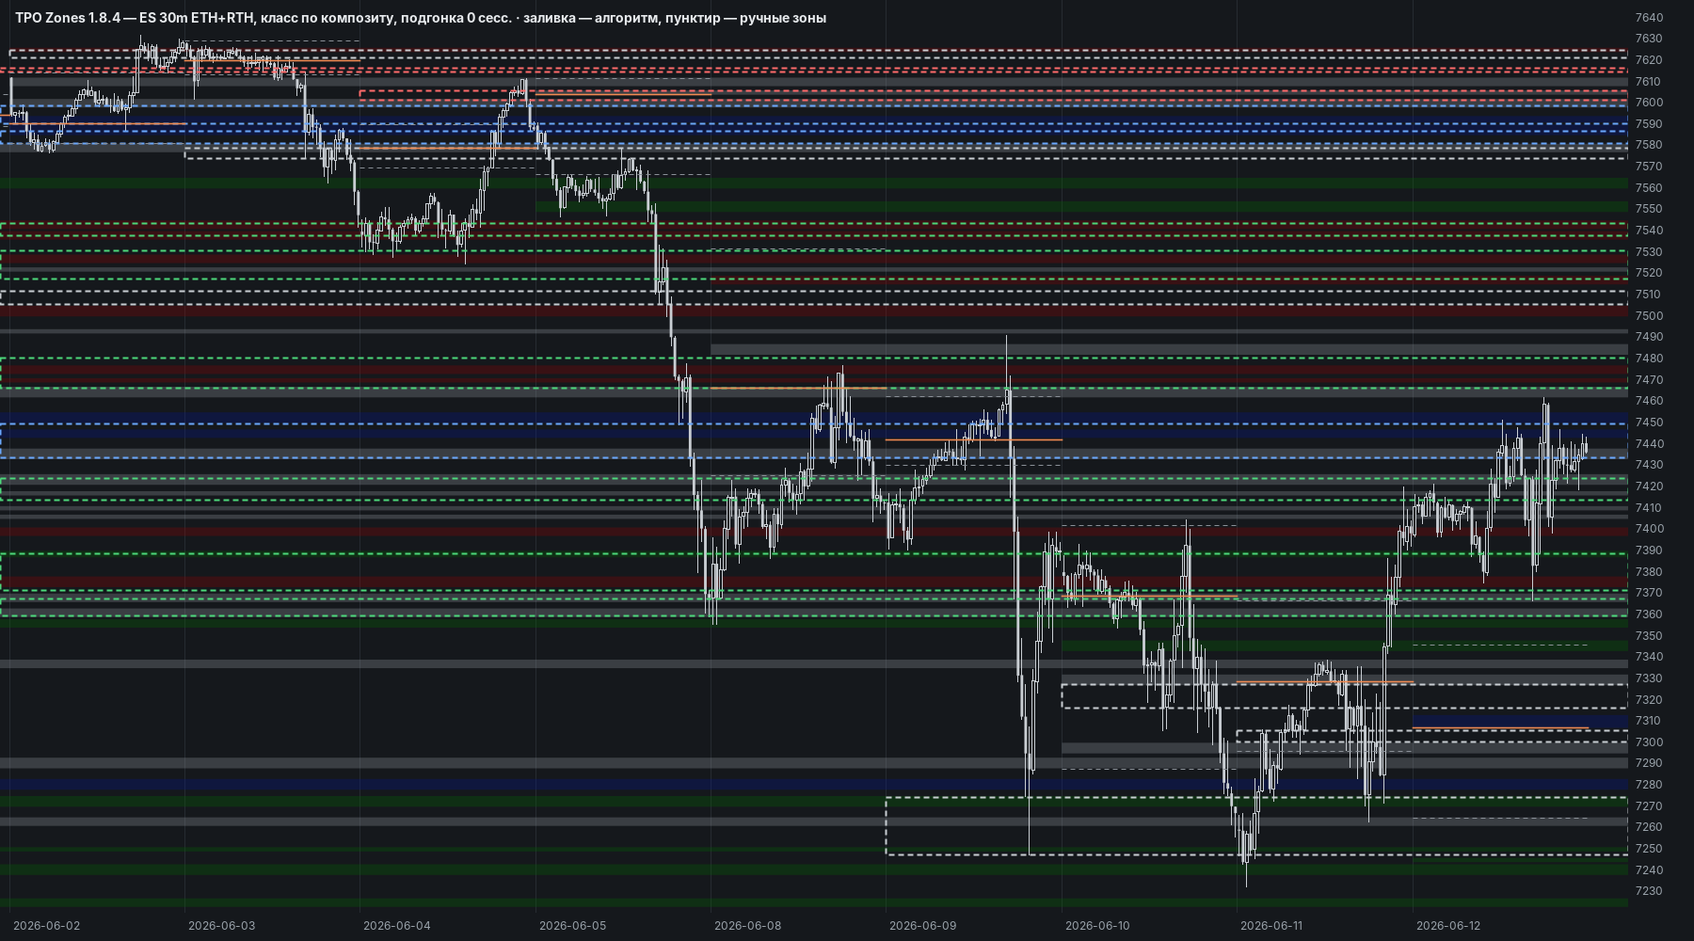
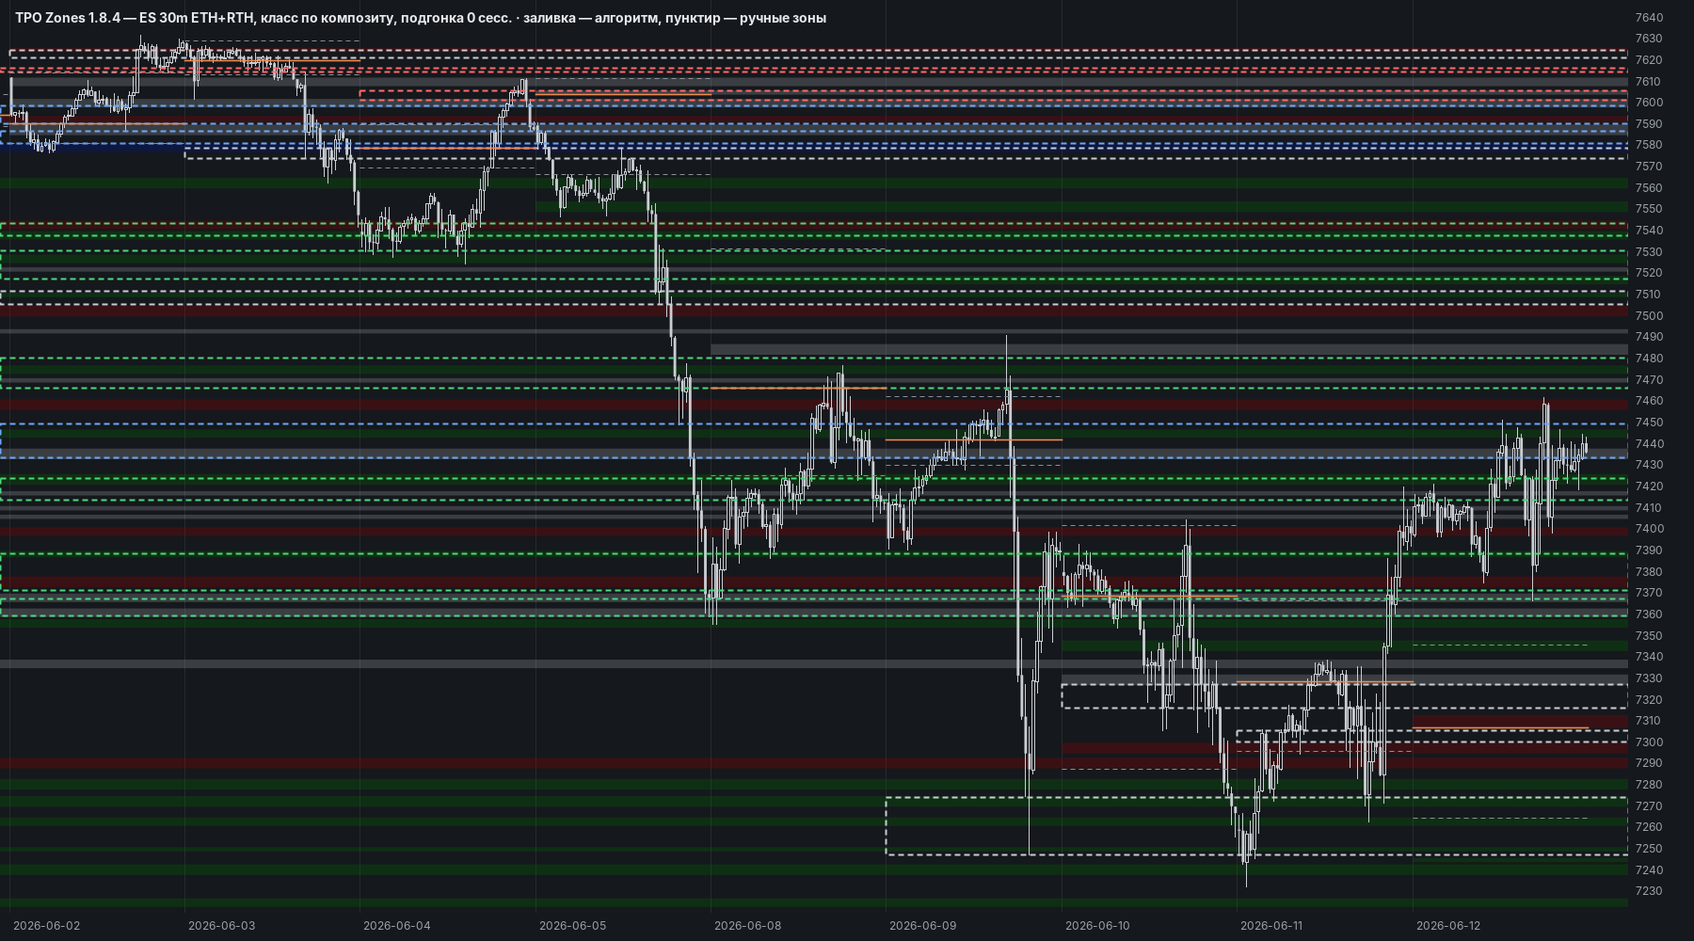
1.8.4 trial: composites from 4 days, smeared days close the composite
- compositeMinDays 3 -> 4.
- smearMaxTpo = 5, smearMode = 1: a full RTH day whose widest row (1-pt
  TPO square) holds no more than 5 TPOs is a trend day without a fat part;
  it does not join a composite, closes the current one (no false break
  across it) and does not start a new one. smearMode = 2 skips it instead.
  72 such days in the history.
- parity/CompSess.java: composites split into their session TPO profiles.

Balances 131 -> 88 (39 -> 24 in the last year). Last session: 602 zones.
Against the 111 manual zones: found 33%, IoU>=0.5 18%, edge error 1.22
pts, colour 27%. With compositeMinDays=3 smearMaxTpo=0 and the other
trial flags off the dump is identical to 1.8.3.

Claude-Session: https://claude.ai/code/session_01PTkojyiGzDNp63zhXM5QMh

diff --git a/motivewave/parity/CompSess.java b/motivewave/parity/CompSess.java
@@ -1,0 +1,128 @@
+package patterns.zones;
+import java.awt.*; import java.awt.image.BufferedImage; import java.io.*; import java.time.*; import java.util.*; import java.util.List;
+import javax.imageio.ImageIO;
+import patterns.zones.ZoneEngine.*;
+/** Композит, разобранный на сессионные RTH TPO-профили (не склеенные): java CompSess bars.csv outDir N [поле=значение ...]
+ *  Берёт N закрытых композитов, равномерно по последнему году; по дню до и после — бледно. */
+public class CompSess {
+  static final ZoneId TZ = ZoneId.of("America/Chicago");
+  public static void main(String[] a) throws Exception {
+    List<Bar> bars = Check.read(a[0]);
+    Params p = new Params(); p.compositeMode = true; p.zoneMaxWidthPts = 10;
+    for (int i = 3; i < a.length; i++) Check.set(p, a[i]);
+    Result res = ZoneEngine.run(bars, p);
+    // RTH-периоды по датам
+    TreeMap<LocalDate, List<double[]>> days = new TreeMap<>();
+    for (Bar b : res.bars) {
+      LocalDateTime lt = LocalDateTime.ofInstant(Instant.ofEpochMilli(b.t), TZ); int m = lt.getHour() * 60 + lt.getMinute();
+      if (m >= p.rthStartMin && m < p.rthEndMin) days.computeIfAbsent(lt.toLocalDate(), x -> new ArrayList<>()).add(new double[]{(m - p.rthStartMin) / 30, b.o, b.h, b.l, b.c});
+    }
+    LocalDate last = days.lastKey(), since = last.minusYears(1);
+    List<Comp> cs = new ArrayList<>();
+    for (Comp c : res.comps) if (!c.live && c.start.isAfter(since)) cs.add(c);
+    int N = Integer.parseInt(a[2]);
+    List<Comp> pick = new ArrayList<>();
+    for (int k = 0; k < N && !cs.isEmpty(); k++) { Comp c = cs.get((int) Math.round(k * (cs.size() - 1) / (double) Math.max(1, N - 1))); if (!pick.contains(c)) pick.add(c); }
+    System.out.println("закрытых композитов за год: " + cs.size());
+    int k = 0;
+    for (Comp c : pick) draw(c, days, res, p, new File(a[1], String.format("comp_%02d_%s.png", ++k, c.start)));
+  }
+
+  static void draw(Comp c, TreeMap<LocalDate, List<double[]>> days, Result res, Params p, File out) throws Exception {
+    List<LocalDate> ds = new ArrayList<>();
+    LocalDate before = days.lowerKey(c.start), after = days.higherKey(c.end);
+    if (before != null) ds.add(before);
+    ds.addAll(days.subMap(c.start, true, c.end, true).keySet());
+    if (after != null) ds.add(after);
+    // квадраты 1 п.: строка q = floor(цена)
+    double lo = Double.MAX_VALUE, hi = -Double.MAX_VALUE;
+    List<Map<Integer, List<Integer>>> prof = new ArrayList<>(); int maxCnt = 1;
+    for (LocalDate d : ds) {
+      Map<Integer, List<Integer>> m = new TreeMap<>();
+      for (double[] b : days.get(d)) {
+        for (int q = (int) Math.floor(b[3]); q <= (int) Math.floor(b[2] - 1e-9); q++) m.computeIfAbsent(q, x -> new ArrayList<>()).add((int) b[0]);
+        lo = Math.min(lo, b[3]); hi = Math.max(hi, b[2]);
+      }
+      for (List<Integer> v : m.values()) maxCnt = Math.max(maxCnt, v.size());
+      prof.add(m);
+    }
+    lo = Math.min(lo, c.lo) - 3; hi = Math.max(hi, c.hi) + 3;
+    int rows = (int) Math.ceil(hi - lo);
+    int H = 1150, T = 96, B = 40, L = 14, R = 70;
+    double rh = (H - T - B) / (double) rows;
+    int cw = (int) Math.max(7, Math.min(16, rh * 1.1));
+    int colW = maxCnt * cw + 34;
+    int W = Math.max(1560, L + R + colW * ds.size());
+    BufferedImage img = new BufferedImage(W, H, BufferedImage.TYPE_INT_RGB);
+    Graphics2D g = img.createGraphics(); g.setRenderingHint(RenderingHints.KEY_ANTIALIASING, RenderingHints.VALUE_ANTIALIAS_ON);
+    g.setRenderingHint(RenderingHints.KEY_TEXT_ANTIALIASING, RenderingHints.VALUE_TEXT_ANTIALIAS_ON);
+    g.setColor(new Color(0x131722)); g.fillRect(0, 0, W, H);
+    final double fhi = hi; final double frh = rh;
+    java.util.function.DoubleToIntFunction ty = v -> (int) Math.round(T + (fhi - v) * frh);
+    g.setFont(new Font("SansSerif", Font.PLAIN, 12));
+    int step = rows > 120 ? 10 : 5;
+    for (double y = Math.ceil(lo / step) * step; y <= hi; y += step) { int yy = ty.applyAsInt(y); g.setColor(new Color(0x1e2230)); g.drawLine(L, yy, W - R, yy); g.setColor(new Color(0x8a9097)); g.drawString(String.valueOf((int) y), W - R + 6, yy + 4); }
+    int i0 = before != null ? 1 : 0, i1 = ds.size() - (after != null ? 2 : 1);
+    int x0 = L + i0 * colW, x1 = L + (i1 + 1) * colW;
+    // композит: ядро, тело, VA, POC, диапазон
+    int[] va = ZoneEngine.valueArea(c.prof, p.valueAreaPct);
+    g.setColor(new Color(0x2962ff)); g.setComposite(AlphaComposite.getInstance(AlphaComposite.SRC_OVER, 0.28f));
+    g.fillRect(x0, ty.applyAsInt(c.core.hi), x1 - x0, Math.max(2, ty.applyAsInt(c.core.lo) - ty.applyAsInt(c.core.hi)));
+    g.setComposite(AlphaComposite.SrcOver);
+    Stroke dash = new BasicStroke(1.2f, BasicStroke.CAP_BUTT, BasicStroke.JOIN_MITER, 10, new float[]{6, 5}, 0);
+    g.setStroke(dash); g.setColor(new Color(0xd1d4dc));
+    g.drawLine(x0, ty.applyAsInt(va[2] * p.tick), x1, ty.applyAsInt(va[2] * p.tick)); g.drawLine(x0, ty.applyAsInt(va[1] * p.tick), x1, ty.applyAsInt(va[1] * p.tick));
+    g.setColor(new Color(0x787b86));
+    g.drawLine(x0, ty.applyAsInt(c.bodyHi), x1, ty.applyAsInt(c.bodyHi)); g.drawLine(x0, ty.applyAsInt(c.bodyLo), x1, ty.applyAsInt(c.bodyLo));
+    g.setStroke(new BasicStroke(2f)); g.setColor(new Color(0xff9800)); g.drawLine(x0, ty.applyAsInt(c.pocT * p.tick), x1, ty.applyAsInt(c.pocT * p.tick));
+    g.setStroke(new BasicStroke(1.5f)); g.setColor(new Color(0x2962ff)); g.drawRect(x0, ty.applyAsInt(c.hi), x1 - x0, ty.applyAsInt(c.lo) - ty.applyAsInt(c.hi));
+    // сессии
+    Font lf = new Font("Monospaced", Font.BOLD, (int) Math.max(8, Math.min(13, rh * 0.95)));
+    for (int i = 0; i < ds.size(); i++) {
+      boolean in = i >= i0 && i <= i1;
+      int cx = L + i * colW + 22;
+      g.setColor(new Color(0x2a2e39)); g.setStroke(new BasicStroke(1f)); g.drawLine(L + i * colW, T - 30, L + i * colW, H - B);
+      LocalDate d = ds.get(i);
+      g.setFont(new Font("SansSerif", Font.BOLD, 13)); g.setColor(in ? new Color(0xd1d4dc) : new Color(0x5d606b));
+      g.drawString(String.format("%02d.%02d", d.getDayOfMonth(), d.getMonthValue()) + (days.get(d).size() < p.fullDayPeriods ? " корот." : "") + (in ? "" : i == 0 ? " до" : " после"), L + i * colW + 6, T - 14);
+      Map<Integer, List<Integer>> m = prof.get(i);
+      // VA и POC дня
+      int tot = 0; for (List<Integer> v : m.values()) tot += v.size();
+      List<Integer> qs = new ArrayList<>(m.keySet()); int poc = qs.get(0);
+      for (int q : qs) if (m.get(q).size() > m.get(poc).size() || (m.get(q).size() == m.get(poc).size() && Math.abs(q - mid(qs)) < Math.abs(poc - mid(qs)))) poc = q;
+      int vlo = poc, vhi = poc, acc = m.get(poc).size();
+      while (acc < 0.7 * tot) {
+        int up = m.containsKey(vhi + 1) ? m.get(vhi + 1).size() : -1, dn = m.containsKey(vlo - 1) ? m.get(vlo - 1).size() : -1;
+        if (up < 0 && dn < 0) break;
+        if (up >= dn) { vhi++; acc += up; } else { vlo--; acc += dn; }
+      }
+      g.setColor(in ? new Color(0xb2b5be) : new Color(0x4a4e59)); g.setStroke(new BasicStroke(2f));
+      g.drawLine(cx - 8, ty.applyAsInt(vhi + 1), cx - 8, ty.applyAsInt(vlo));
+      for (int q : qs) {
+        List<Integer> v = m.get(q);
+        for (int j = 0; j < v.size(); j++) {
+          int per = v.get(j);
+          float hue = 0.60f - 0.60f * per / 12f;
+          Color col = Color.getHSBColor(hue, in ? 0.55f : 0.15f, in ? 0.95f : 0.45f);
+          if (q == poc) col = in ? new Color(0xff9800) : new Color(0x7a5a2a);
+          int yy = ty.applyAsInt(q + 1), hh = Math.max(1, ty.applyAsInt(q) - yy - (rh > 5 ? 1 : 0));
+          int xx = cx + j * cw;
+          if (rh >= 9) { g.setFont(lf); g.setColor(col); g.drawString(String.valueOf((char) ('A' + per)), xx, yy + hh - 1); }
+          else { g.setColor(col); g.fillRect(xx, yy, cw - 1, hh); }
+        }
+      }
+    }
+    // заголовок
+    g.setFont(new Font("SansSerif", Font.BOLD, 16)); g.setColor(new Color(0xd1d4dc));
+    long nd = days.subMap(c.start, true, c.end, true).size();
+    g.drawString(String.format(Locale.ROOT, "Композит %s – %s: %d сессий%s%s; диапазон %.2f–%.2f (%.0f п.)", c.start, c.end, nd,
+        c.extendsOf != null ? ", продолжение после ложного выхода" : "", c.primary ? ", первичный (price discovery)" : "", c.lo, c.hi, c.hi - c.lo), L, 24);
+    g.setFont(new Font("SansSerif", Font.PLAIN, 13)); g.setColor(new Color(0xb2b5be));
+    g.drawString(String.format(Locale.ROOT, "ядро %.2f–%.2f (синяя полоса) · POC композита %.2f (оранжевая) · VA композита %.2f–%.2f (белый пунктир) · тело %.2f–%.2f (серый пунктир) · рамка — диапазон",
+        c.core.lo, c.core.hi, c.pocT * p.tick, va[1] * p.tick, va[2] * p.tick, c.bodyLo, c.bodyHi), L, 46);
+    g.drawString("сессии RTH по отдельности, квадрат 1 п., буквы A–M — 30-минутки (A 08:30 CT); оранжевая строка — POC сессии, вертикальная черта — её VA 70%; бледные — день до и день после", L, 64);
+    ImageIO.write(img, "png", out);
+    System.out.println(out + "  " + c.start + "–" + c.end + " " + nd + " д.");
+  }
+  static double mid(List<Integer> qs) { return (qs.get(0) + qs.get(qs.size() - 1)) / 2.0; }
+}

diff --git a/motivewave/src/patterns/zones/ZoneEngine.java b/motivewave/src/patterns/zones/ZoneEngine.java
@@ -74,7 +74,11 @@ public final class ZoneEngine {
 
         // ---- композиты
         public boolean compositeMode = false;     // класс зоны по положению в композите (индикатор: true), иначе — по отторжениям (1.1)
-        public int compositeMinDays = 3;
+        public int compositeMinDays = 4;          // 1.8.4: от 4 дней (было 3)
+        public int smearMaxTpo = 5;               // 1.8.4: «размазня» — полный RTH-день, у которого в самой широкой строке (квадрат 1 п.)
+                                                  // не больше стольких TPO (тренд, жирной части нет): в композит не входит; 0 — выкл.
+        public int smearMode = 1;                 // ... 1 — такой день закрывает композит (выход, ложного выхода через него нет) и
+                                                  // нового не начинает; 2 — пропускается, композит идёт дальше, как будто дня нет
         public boolean compositeShortDays = true; // короткие дни (ранние закрытия) входят в профиль композита, как в TPO платформы
         public double compVaOverlap = 0.5;        // VA дня и VA композита пересекаются на ≥ эту долю меньшей из двух (0 — не проверять)
         public boolean compJoinBoth = true;       // склейка: close в диапазоне И пересечение VA (иначе — ИЛИ); так же доклейка после
@@ -352,6 +356,7 @@ public final class ZoneEngine {
         final List<double[]> sbars = new ArrayList<>();  // все 30m-свечи сессии (ETH + RTH): {o, h, l, c}
         Profile profile; int poc, val, vah;              // тики
         int hvnTpo, bandLo, bandHi;                      // per_day (только полные дни)
+        int maxSq;                                       // самая широкая строка профиля в квадратах 1 п., TPO
         double adr = Double.NaN;                         // средний диапазон 20 прошлых полных дней (без этого дня)
     }
 
@@ -446,7 +451,7 @@ public final class ZoneEngine {
         public final List<Comp> comps = new ArrayList<>();           // балансы (закрытые композиты, ядро признано)
         public final List<Comp> notBalance = new ArrayList<>();      // композиты, где дни не сошлись (без ядра)
         public final List<Comp> subComps = new ArrayList<>();        // уточнения внутри более раннего баланса
-        public int thinDropped, stackDropped, stacksCut;             // пробный патч 1.8.4: сколько убрано узких / из стопок, стопок урезано
+        public int thinDropped, stackDropped, stacksCut, smearDays;             // пробный патч 1.8.4: сколько убрано узких / из стопок, стопок урезано
         public final List<Comp> liveComps = new ArrayList<>();       // снимки формирующихся композитов (балансы, не уточнения)
         public long[] rollMs = new long[0];                          // роллы: начало первого бара нового контракта, epoch ms
         public double[] rollGap = new double[0];                     // ... и гэп (новый − старый), п.
@@ -500,6 +505,10 @@ public final class ZoneEngine {
             int[] lows = new int[d.n], highs = new int[d.n];
             for (int i = 0; i < d.n; i++) { lows[i] = d.periods.get(i)[1]; highs[i] = d.periods.get(i)[2]; }
             d.profile = buildProfile(lows, highs);
+            Map<Integer, Integer> sq = new HashMap<>();
+            for (int i = 0; i < d.n; i++)
+                for (int q = (int) Math.floor(lows[i] * tick); q <= (int) Math.floor(highs[i] * tick - 1e-9); q++) sq.merge(q, 1, Integer::sum);
+            for (int v : sq.values()) d.maxSq = Math.max(d.maxSq, v);
             int[] va = valueArea(d.profile, p.valueAreaPct);
             d.poc = va[0]; d.val = va[1]; d.vah = va[2];
             if (!d.shortDay) {
@@ -531,6 +540,15 @@ public final class ZoneEngine {
             int extCount = 0, lastExt = 0;                  // сколько раз текущий / закрытый композит продолжался
             // режим «по композиту»: короткие дни (ранние закрытия) тоже входят в композит, как в TPO платформы
             for (Day d : p.compositeMode && p.compositeShortDays ? all : full) {
+                if (p.compositeMode && p.smearMaxTpo > 0 && !d.shortDay && d.maxSq <= p.smearMaxTpo) {   // размазня
+                    res.smearDays++;
+                    if (p.smearMode == 2 || cand.isEmpty()) continue;
+                    Comp made = closeComposite(cand, cp, d.date, p, ob, greyComp, res.comps, res.notBalance);
+                    if (made != null) made.extendsOf = extOf;
+                    lastCand = null; lastCp = null; lastComp = made; extOf = null; lastExt = 0; extCount = 0;
+                    cand = new ArrayList<>(); cp = null;
+                    continue;
+                }
                 if (cand.isEmpty()) { cand.add(d); cp = d.profile; continue; }
                 if (p.compositeMode && p.compRollBreak && rollBetween(res, p, cand.get(cand.size() - 1).date, d.date)) {
                     // ролл между последним днём кандидата и этим днём: кандидат закрывается, этот день открывает новый

diff --git a/motivewave/HANDOFF.md b/motivewave/HANDOFF.md
@@ -8,6 +8,10 @@
   10 п. на зону — оно не берёт одну самую правдивую 10 по объёму или 7 + 2 / 5 + 3, а делает 3 по 10 с пробелом в 1 п.»;
   «поменяем главное правило: корректировать ядро, если вторичный баланс делает корректировку в первичном — пришли ещё
   раз к этим ценам и сформировали хороший композит, который накладывается, — в пользу более нового».
+- **Потом сказано:** «мы же договорились — отключаем композиты по 3 дня, только от 4»; «размазнёвые дни не включать в
+  композит — 4–5 п. самое широкое место, это размазня, а не композит». Сделано: `compositeMinDays = 4` (в 1.8.2 записано
+  «пробовали, не взяли» — пользователь считает это согласованным), `smearMaxTpo = 5` / `smearMode = 1`. Открыто: ноябрь
+  2025 (строки 6–7 TPO при днях 85–240 п.) правилом 5 не ловится; день 20.11.2025 (240 п.) раздувает композит до 254 п.
 - **Как понято:** «10 п.» — на сумму стопки (от низа до верха со щелями), а не на зону; синие ≤ 1 п. и синие / экстремумы
   ≤ 2 п. не трогаются (прежнее «синие не трогаем», «экстремумы вне серых правил»). Лимит ядра `zoneMaxWidthPts` оставлен.
 - **Открыто:** «найдено» упало 40 → 32% (−1 п. и обрезка по телам — ручные зоны часто 1–2 п. и по центру узла);

diff --git a/motivewave/HISTORY.md b/motivewave/HISTORY.md
@@ -12,7 +12,9 @@
   подряд (щель ≤ 1 п.) не выше 10 п. — остаются самые проторгованные; ядро по новому композиту (новый баланс на ценах
   старого перекрашивает его зоны, в т. ч. синюю; уточнений нет). Проверка: всё выкл. — дамп побайтно 1.8.3. Замер:
   зон 611 (было 773), стопок ≥ 10 п. 3 (было 54), найдено 32% (было 40%), край 1.14 п. (1.43), цвет 22% (23%).
-  Перекрашено 179 зон из 581. Пробовали: синие вне лимита стопки — оставались стопки синих по 15 п. (7745–7760 в
+  Перекрашено 179 зон из 581. Затем (по замечанию пользователя на картинках композитов «договорились — от 4 дней»,
+  «размазнёвые дни не включать»): композит от 4 дней; день с ≤ 5 TPO в самой широкой строке закрывает композит.
+  Балансов 131 → 88; итог: зон 602, найдено 33%, край 1.22 п., цвет 27%. Пробовали: синие вне лимита стопки — оставались стопки синих по 15 п. (7745–7760 в
   октябре 2026); лимит по сумме ширин без щелей — 3 зоны по 3 п. через квадрат проходили.
 - **1.8.3** (19.11.2026, ветка `zones-1.8.3`) — 1.8.2, где зоны экстремумов стали обычными зонами, плюс хвост баланса и
   без широких серых (README, разделы 4, 5, 8):
